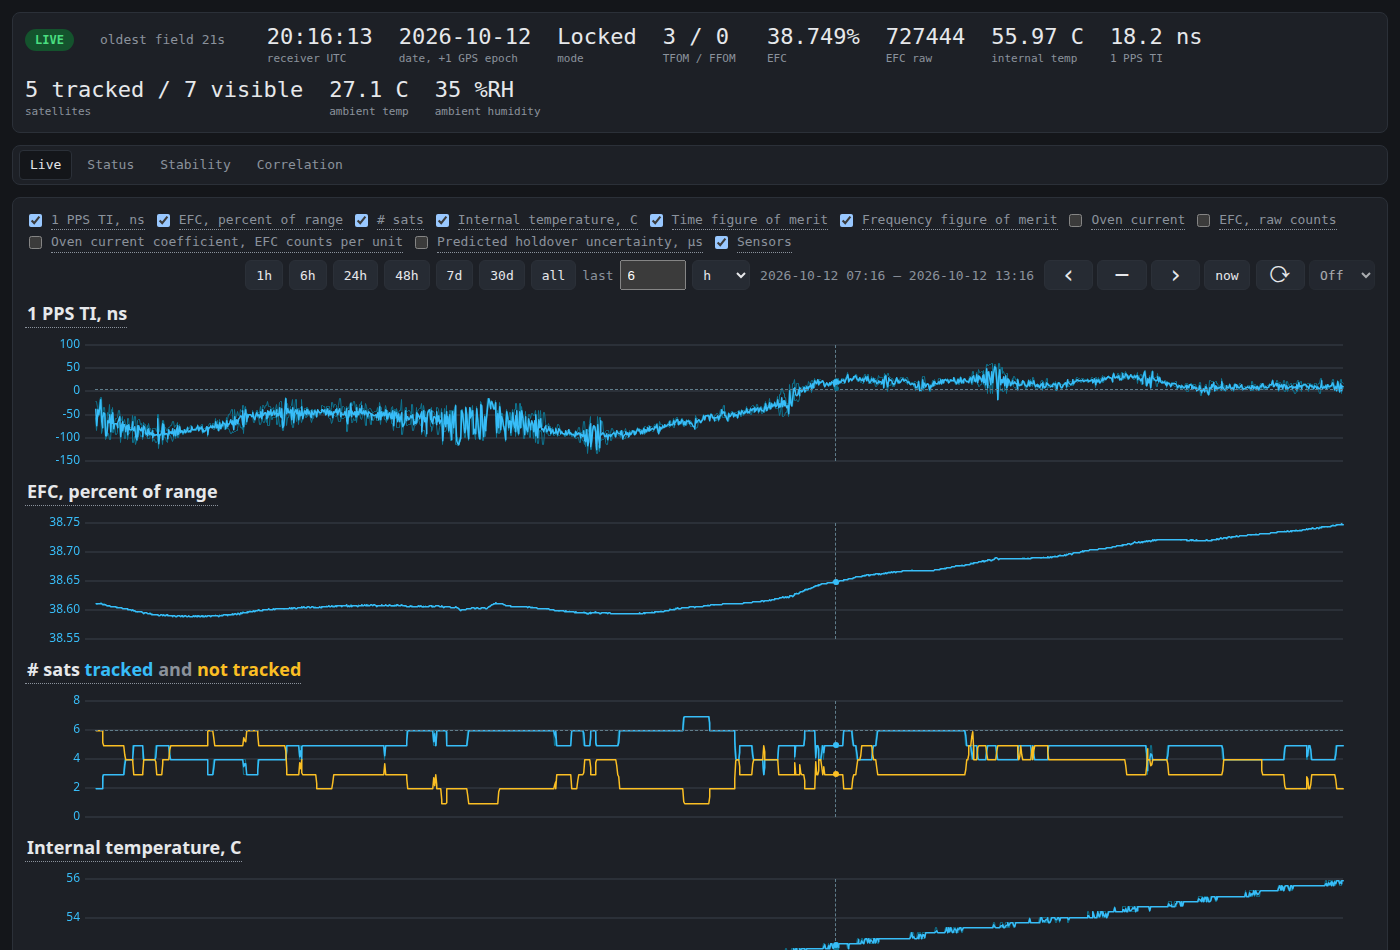
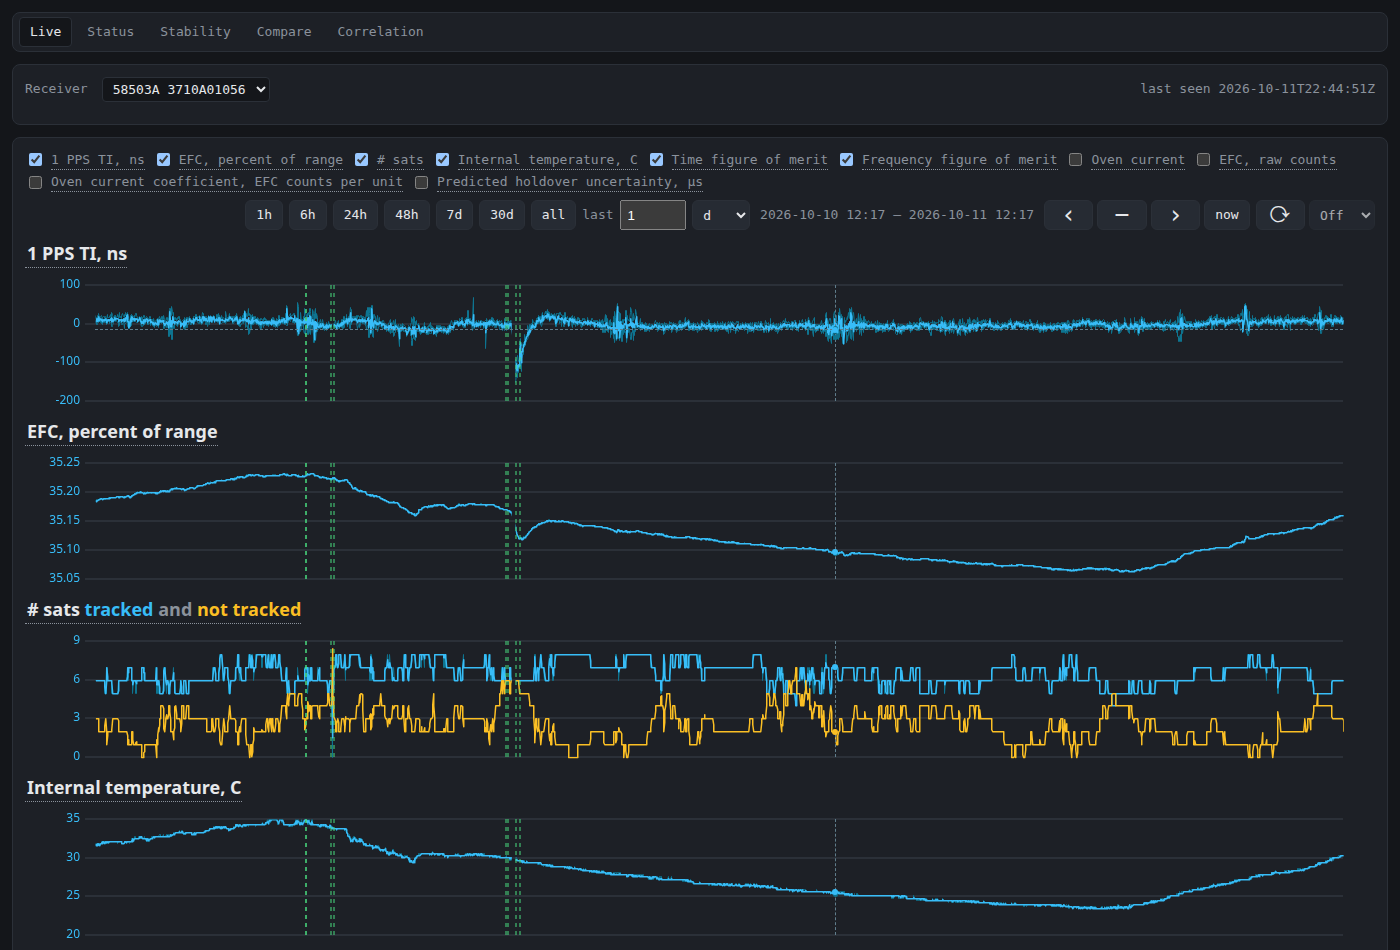
Shoot the history pages from the bench's logs, compare included
--log-dir may be given more than once; the logs are linked into one
scratch directory.  Every page ends at the last reading all receivers
have, and without a daemon the live strip, which would say only that
none is attached, is hidden.  --against chooses what the correlation
page sets EFC against.  The README's history pages are now a day of
the three receivers' logs, and the compare page is added.

diff --git a/README.md b/README.md
@@ -4,14 +4,16 @@ A Rust library, logging daemon, terminal monitor and browser view for
 HP / Agilent / Symmetricom SmartClock GPS time and frequency receivers,
 over a serial port.
 
-![The live page: the 1 PPS interval, EFC and satellites of a locked 58503A](docs/images/web-live.png)
+![The live page: a day of the 1 PPS interval, EFC and satellites of a locked 58503A](docs/images/web-live.png)
 
 | | |
 | - | - |
 | ![The status page: the receiver's screen beside a sky plot](docs/images/web-status.png) | ![The stability page: MDEV, ADEV and TDEV with one-sigma bands](docs/images/web-stability.png) |
-| ![The correlation page: EFC against ambient temperature](docs/images/web-correlation.png) | ![The terminal monitor's dashboard, the position blanked](docs/images/tui-dashboard.png) |
+| ![The compare page: three receivers on one time axis](docs/images/web-compare.png) | ![The correlation page: one receiver's EFC against another's](docs/images/web-correlation.png) |
+| ![The terminal monitor's dashboard, the position blanked](docs/images/tui-dashboard.png) | |
 
-The status page is shown against the simulator.  `make screenshots`
+The history pages are shown from the bench's logs, without the live
+strip; the status page is shown against the simulator.  `make screenshots`
 takes them all again (`tools/screenshots.mjs`).
 
 ## Status
